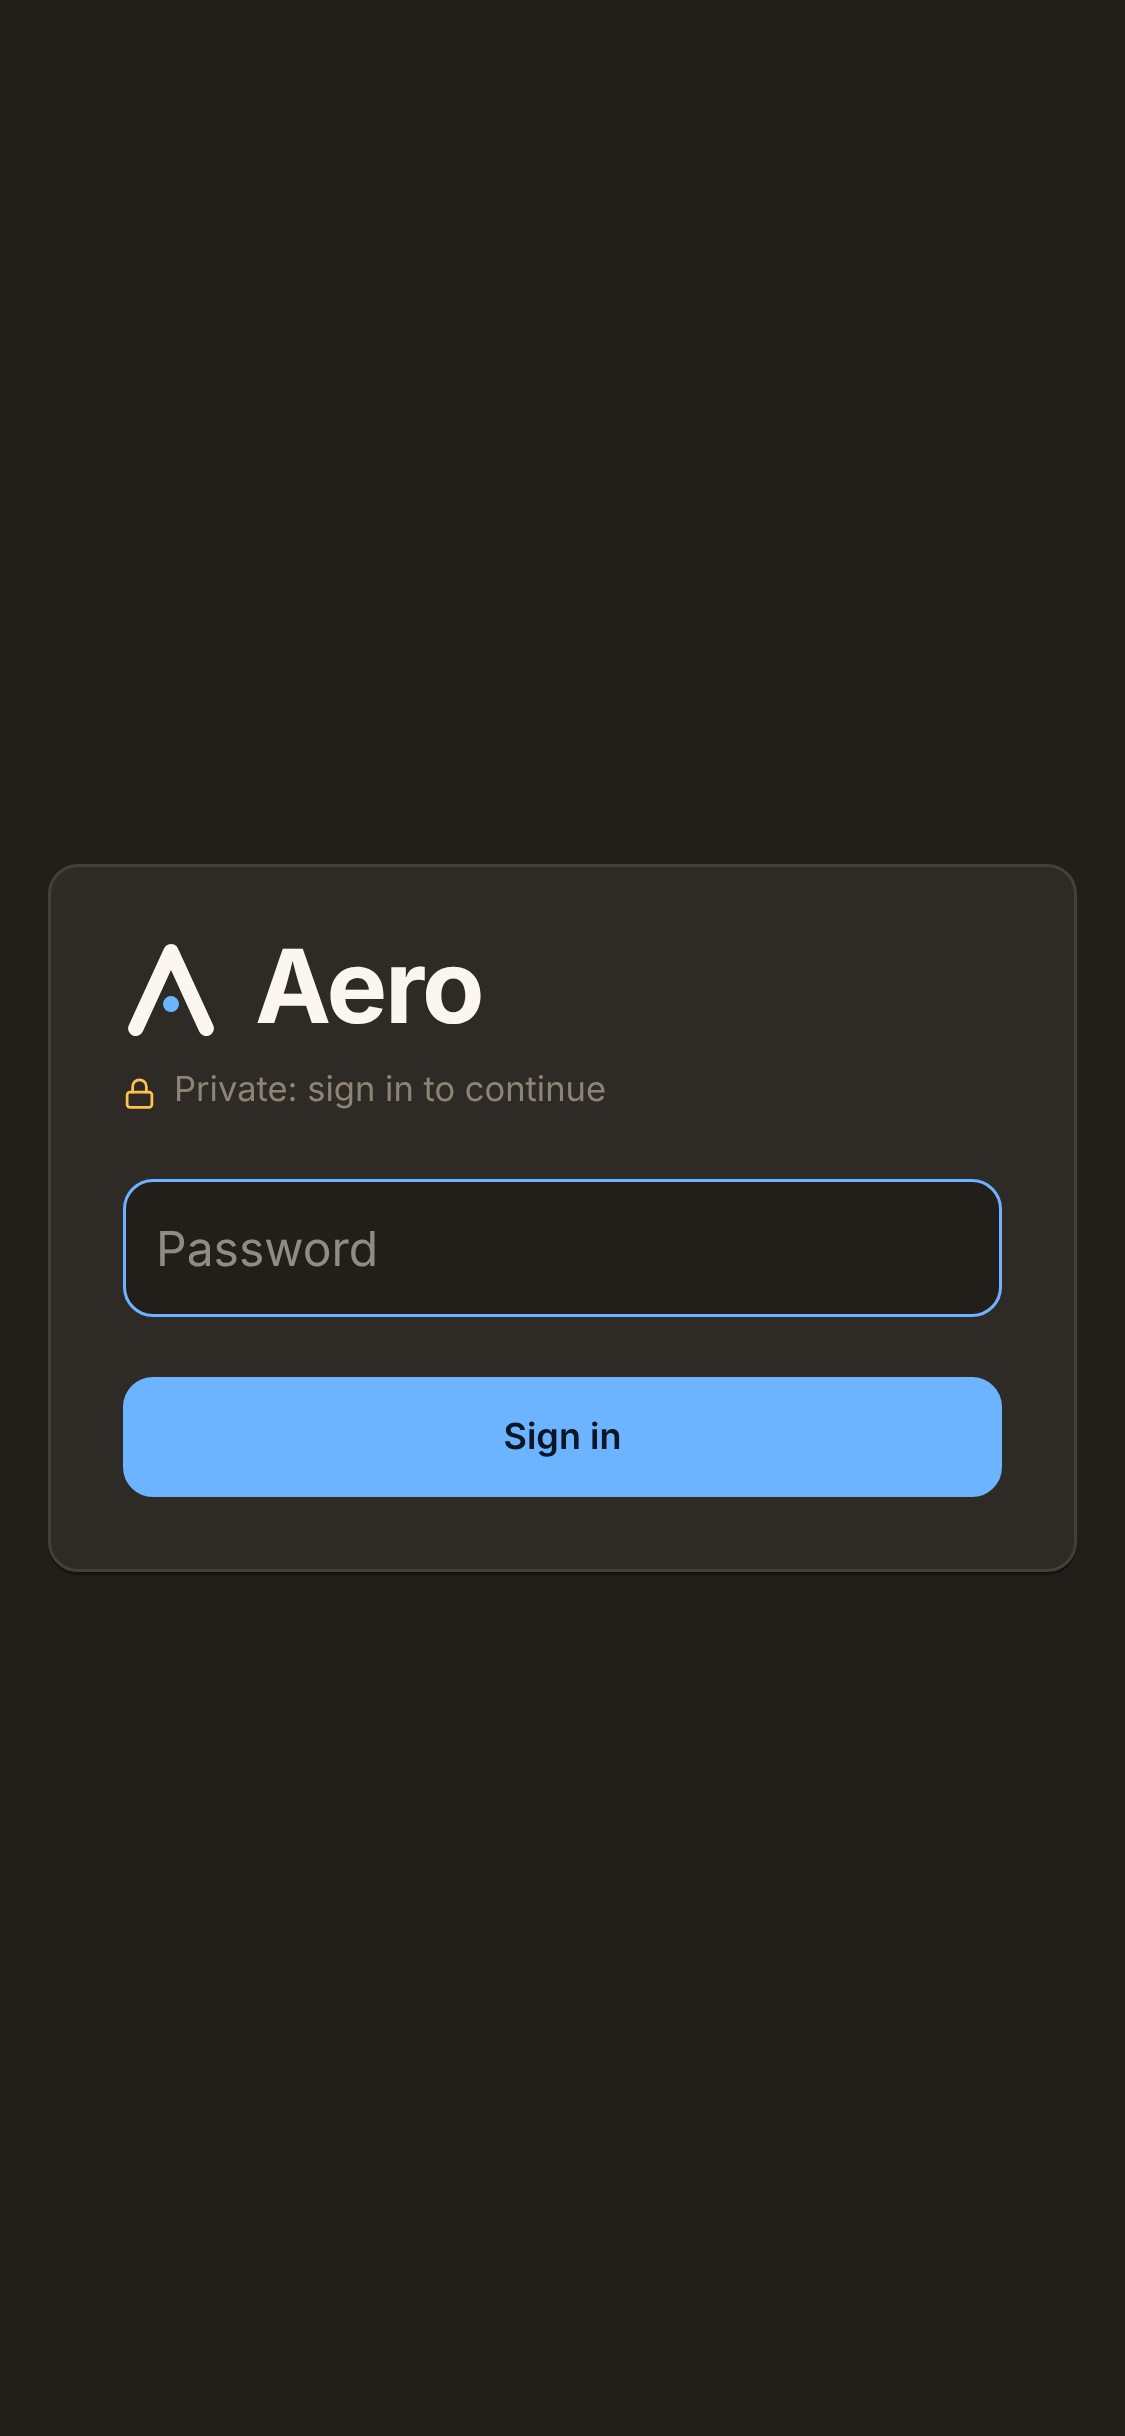
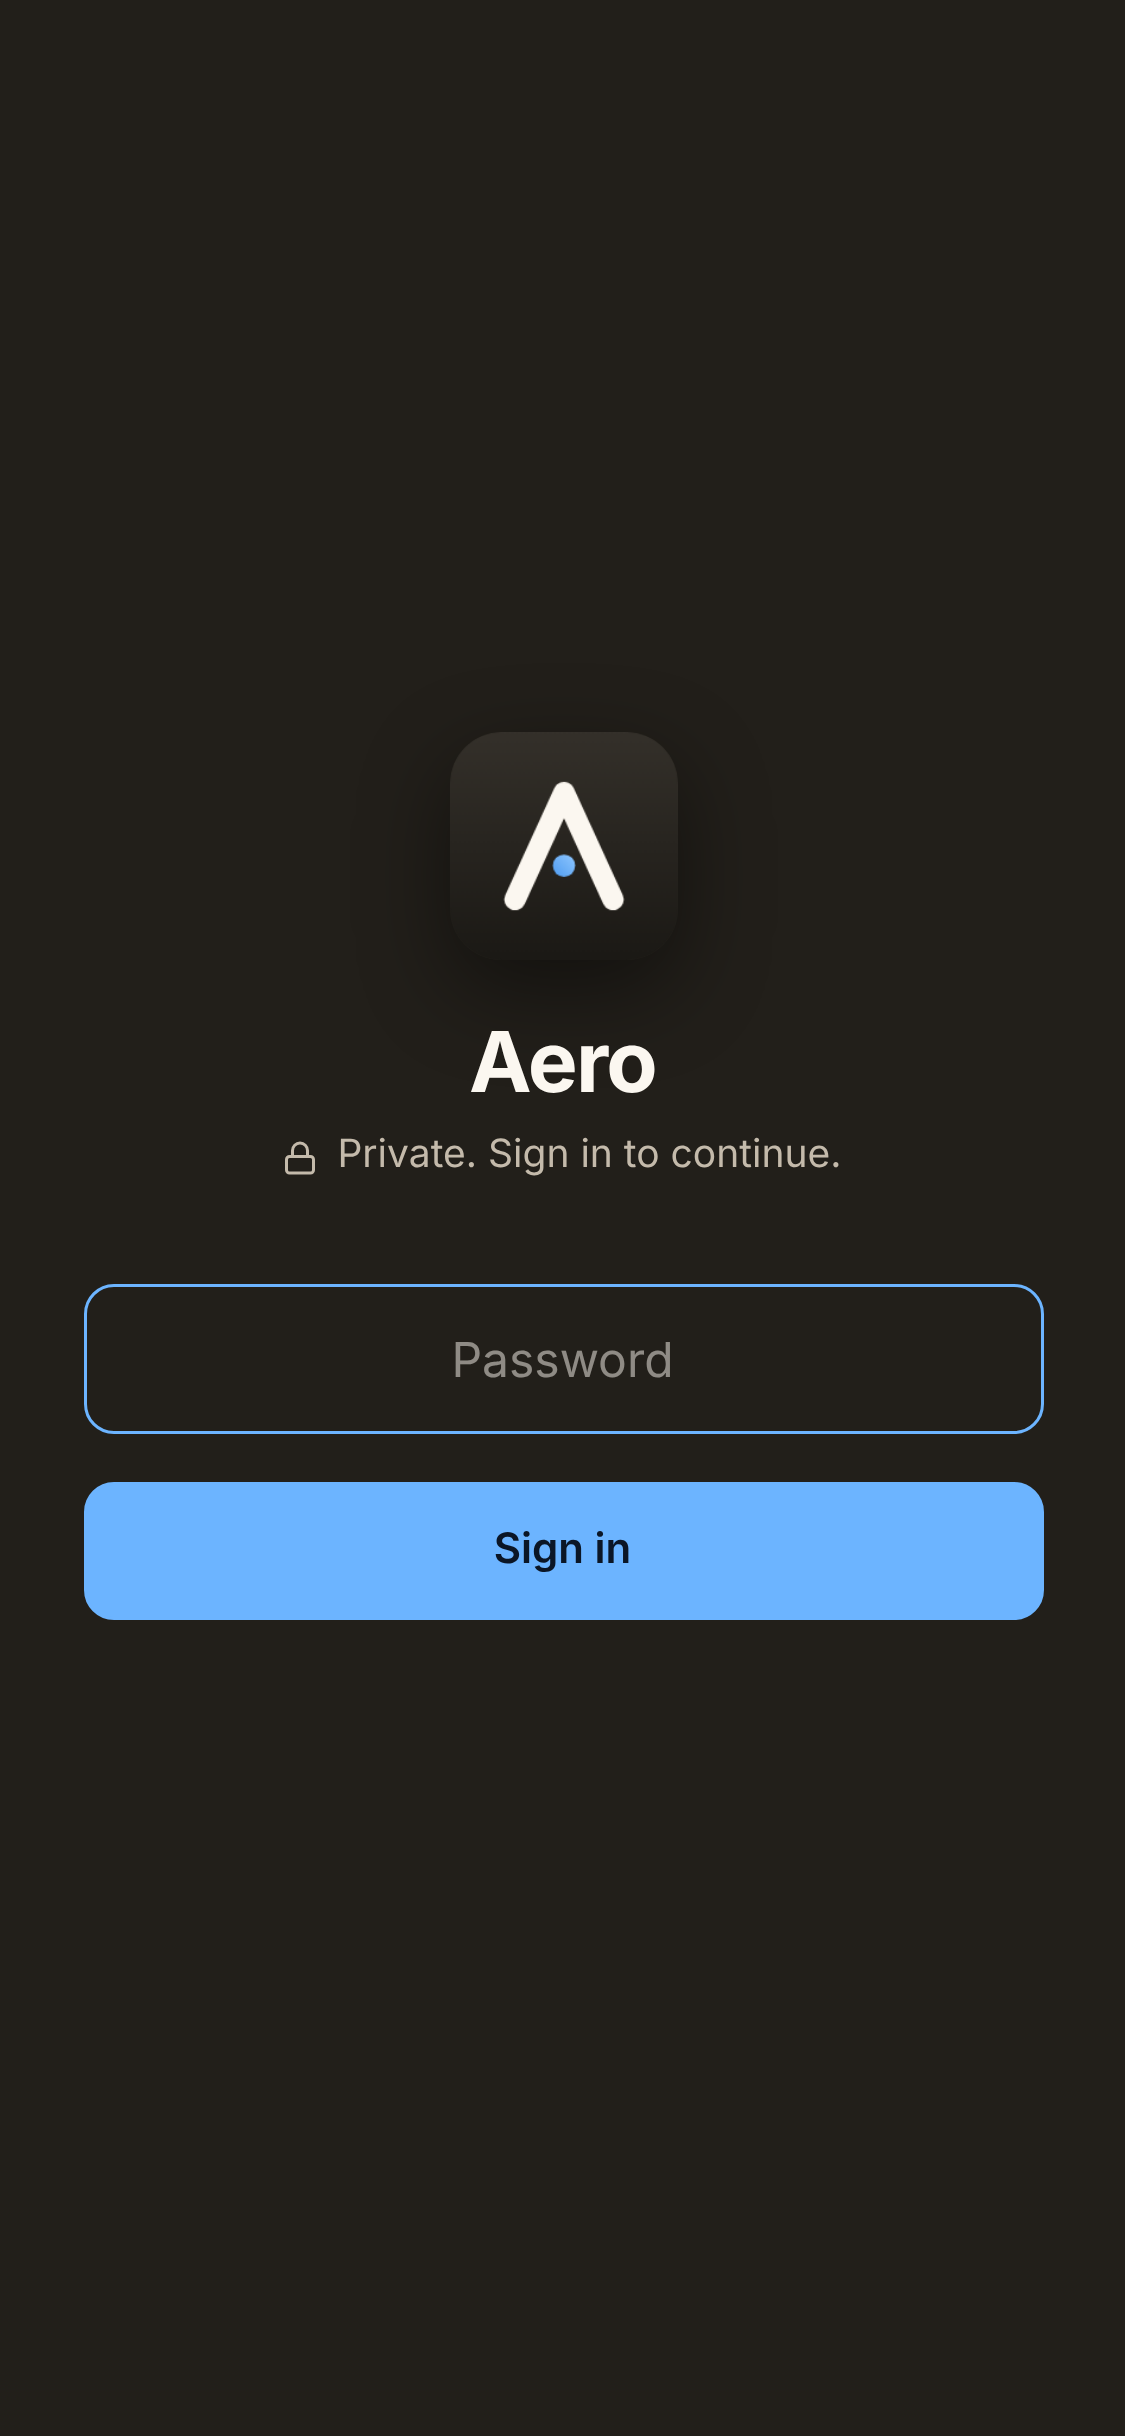
Login screen uses the new Aero branding
Claude-Session: https://claude.ai/code/session_01LzzAbpfuyEGPdj6Zs6mdvA

diff --git a/frontend/app/login/page.tsx b/frontend/app/login/page.tsx
@@ -2,7 +2,6 @@
 
 import { useState } from "react";
 import { Lock } from "lucide-react";
-import AeroMark from "@/components/AeroMark";
 
 export default function Login() {
   const [password, setPassword] = useState("");
@@ -34,19 +33,19 @@ export default function Login() {
   };
 
   return (
-    <main className="min-h-screen flex items-center justify-center p-4">
-      <form onSubmit={submit} className="panel w-full max-w-sm p-6 space-y-5">
-        <div>
-          <h1 className="flex items-center gap-3 font-display text-[34px] leading-none text-txt">
-            <AeroMark size={32} className="text-txt" />
-            Aero
-          </h1>
-          <p className="text-[11px] text-faint mt-2 flex items-center gap-1.5">
-            <Lock size={11} className="text-amber" /> Private: sign in to continue
+    <main className="min-h-dvh flex items-center justify-center px-6 py-10">
+      <form onSubmit={submit} className="w-full max-w-[320px] flex flex-col gap-4">
+        <div className="flex flex-col items-center text-center mb-4">
+          {/* eslint-disable-next-line @next/next/no-img-element */}
+          <img src="/icon-192.png" alt="" width={76} height={76} className="w-[76px] h-[76px] shadow-[0_10px_30px_rgba(0,0,0,0.45)] rounded-[17px] ring-1 ring-edge" />
+          <h1 className="font-display text-[28px] font-semibold tracking-tight leading-none text-txt mt-5">Aero</h1>
+          <p className="text-[13px] text-dim mt-2 flex items-center gap-1.5">
+            <Lock size={12} aria-hidden="true" /> Private. Sign in to continue.
           </p>
         </div>
         <input
-          className="field !py-2.5 sm:!text-sm"
+          className="field !py-3 !text-base sm:!text-sm text-center"
+          aria-label="Password"
           type="password"
           autoComplete="current-password"
           enterKeyHint="go"
@@ -55,8 +54,8 @@ export default function Login() {
           value={password}
           onChange={(e) => setPassword(e.target.value)}
         />
-        {error && <p className="text-xs text-down">{error}</p>}
-        <button className="btn btn-primary w-full !py-2.5" disabled={busy || !password}>
+        {error && <p role="alert" className="text-xs text-down text-center">{error}</p>}
+        <button className="btn btn-primary w-full !py-3 !text-sm" disabled={busy || !password}>
           {busy ? "Signing in…" : "Sign in"}
         </button>
       </form>
